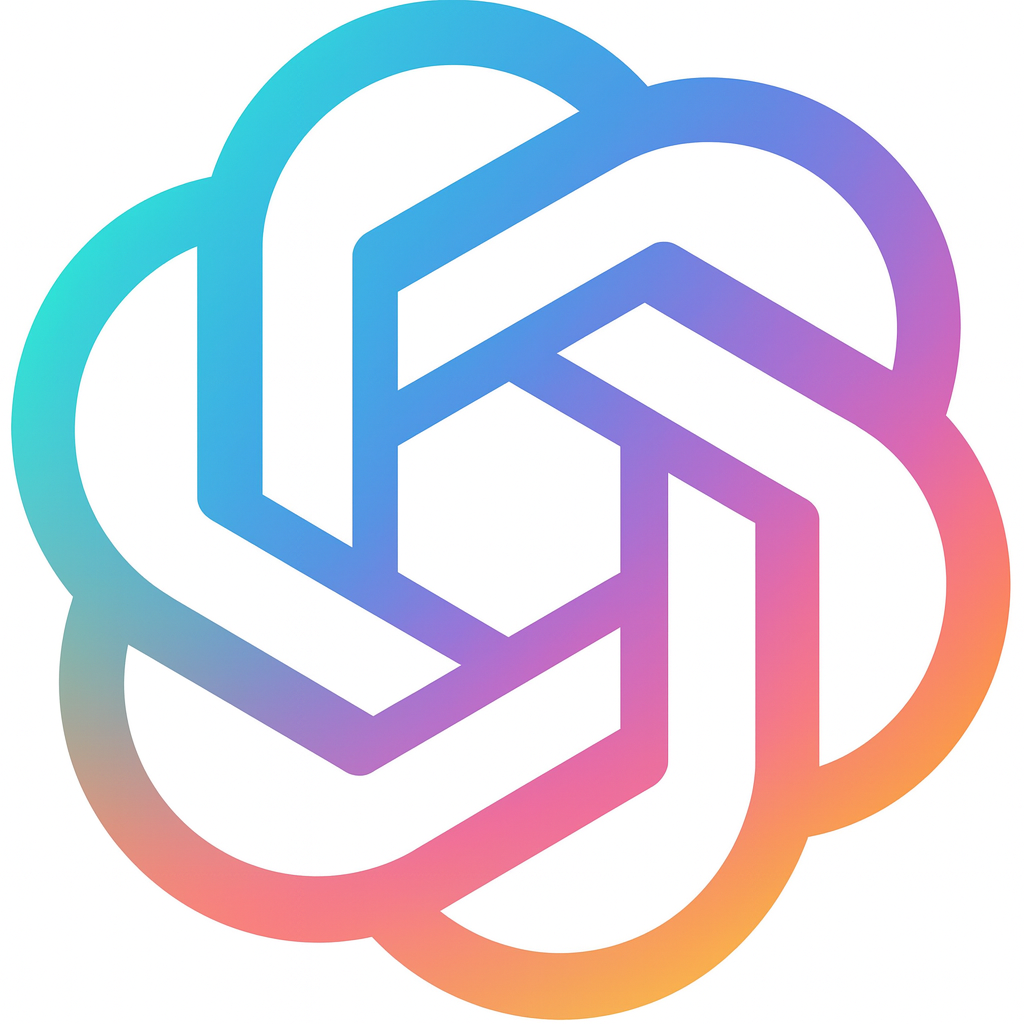
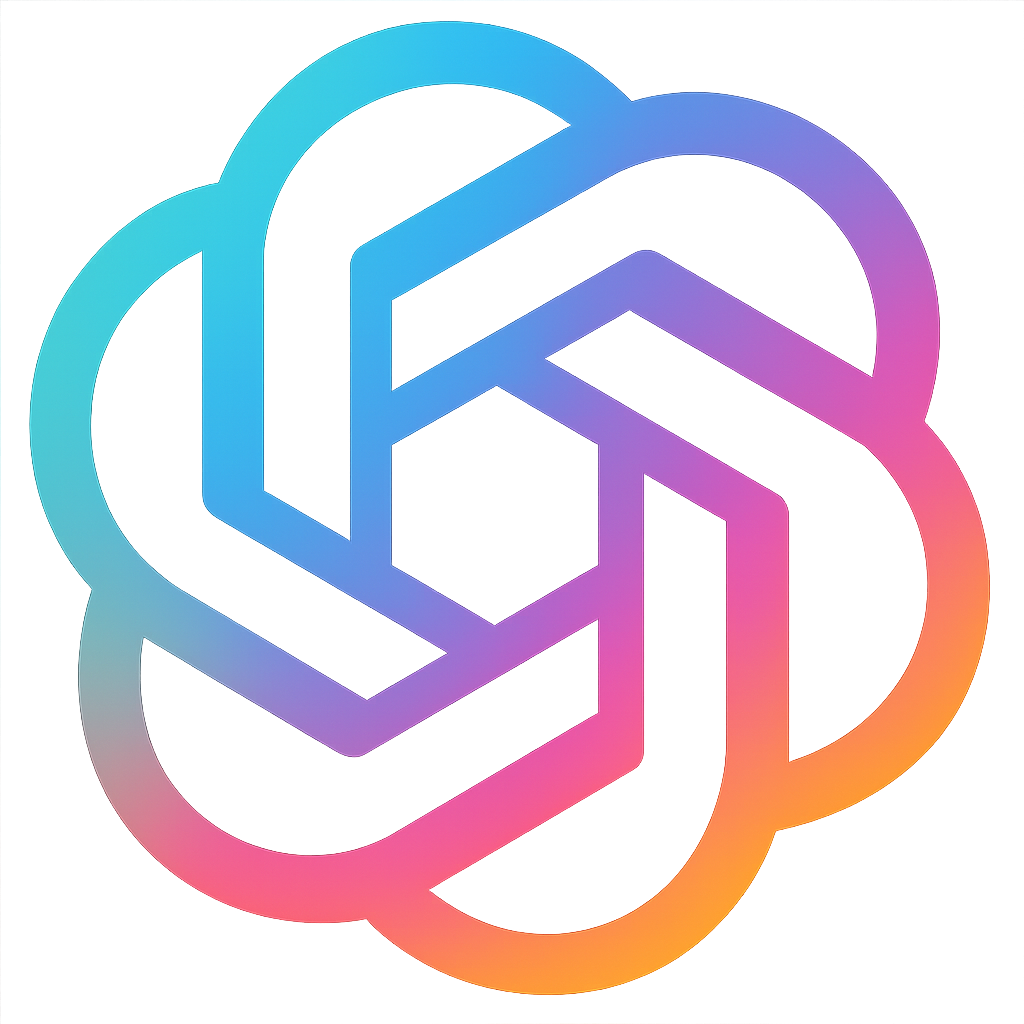
refactor: 将项目从Wanwu重命名为Codex-Plugin
更新项目名称、图标、命令和相关文档，统一使用Codex-Plugin作为新名称

diff --git a/src/extension.ts b/src/extension.ts
@@ -1,20 +1,20 @@
 import * as vscode from 'vscode';
 
-let ccrTerminal: vscode.Terminal | undefined;
+let codexTerminal: vscode.Terminal | undefined;
 // 新增：编辑器区域的终端
 let editorTerminal: vscode.Terminal | undefined;
 
 export function activate(context: vscode.ExtensionContext) {
 	console.log('Claude Code Router 扩展已激活!');
 
-	// 注册 start ccr 命令
-	const startCcrCommand = vscode.commands.registerCommand('ccr.start', () => {
-		startCcrTerminal();
+	// 注册 start codex 命令
+	const startCodexCommand = vscode.commands.registerCommand('ccr.start', () => {
+		startCodexTerminal();
 	});
 
-	// 注册 ccr code 命令
-	const ccrCodeCommand = vscode.commands.registerCommand('ccr.code', () => {
-		executeCcrCode();
+	// 注册 codex code 命令
+	const codexCodeCommand = vscode.commands.registerCommand('ccr.code', () => {
+		executeCodexCode();
 	});
 
 	// 新增：注册在编辑器侧边打开终端的命令
@@ -23,15 +23,15 @@ export function activate(context: vscode.ExtensionContext) {
 	});
 
 	context.subscriptions.push(
-		startCcrCommand, 
-		ccrCodeCommand, 
+		startCodexCommand, 
+		codexCodeCommand, 
 		openTerminalEditorSideCommand
 	);
 
 	// 监听终端关闭事件
 	vscode.window.onDidCloseTerminal((terminal) => {
-		if (terminal === ccrTerminal) {
-			ccrTerminal = undefined;
+		if (terminal === codexTerminal) {
+			codexTerminal = undefined;
 		}
 		if (terminal === editorTerminal) {
 			editorTerminal = undefined;
@@ -53,10 +53,10 @@ function openTerminalEditorSide() {
 		editorTerminal.show();
 		setTimeout(() => {
 			if (editorTerminal) {
-				editorTerminal.sendText('ccr code');
+				editorTerminal.sendText('codex');
 			}
 		}, 300);
-		vscode.window.showInformationMessage('编辑器终端已显示，正在执行 ccr code...');
+		vscode.window.showInformationMessage('编辑器终端已显示，正在执行 codex...');
 		return;
 	}
 
@@ -69,18 +69,18 @@ function openTerminalEditorSide() {
 				// 发送欢迎信息并自动执行 ccr code
 				editorTerminal.sendText('echo "🚀 CCR 编辑器侧边终端已启动！"');
 				editorTerminal.sendText('echo "📍 当前目录: $(pwd)"');
-				editorTerminal.sendText('echo "⚡ 正在自动启动 ccr code..."');
+				editorTerminal.sendText('echo "⚡ 正在自动启动 codex..."');
 				editorTerminal.sendText('');
-				// 自动执行 ccr code 命令
-				editorTerminal.sendText('ccr code');
+				// 自动执行 codex 命令
+				editorTerminal.sendText('codex');
 			}
 		}, 800);
 	});
 
-	vscode.window.showInformationMessage('CCR 编辑器终端已在侧边打开，正在自动执行 ccr code...');
+	vscode.window.showInformationMessage('CCR 编辑器终端已在侧边打开，正在自动执行 codex...');
 }
 
-function startCcrTerminal() {
+function startCodexTerminal() {
 	// 获取当前工作区的根目录
 	const workspaceFolder = vscode.workspace.workspaceFolders?.[0];
 	if (!workspaceFolder) {
@@ -89,43 +89,43 @@ function startCcrTerminal() {
 	}
 
 	// 如果终端已存在，显示它；否则创建新的终端
-	if (ccrTerminal) {
-		ccrTerminal.show();
-		vscode.window.showInformationMessage('CCR 终端已打开');
+	if (codexTerminal) {
+		codexTerminal.show();
+		vscode.window.showInformationMessage('Codex 终端已打开');
 	} else {
-		ccrTerminal = vscode.window.createTerminal({
-			name: 'CCR Terminal',
+		codexTerminal = vscode.window.createTerminal({
+			name: 'Codex Terminal',
 			cwd: workspaceFolder.uri.fsPath,
-			message: 'Claude Code Router 终端已启动\n输入 "ccr code" 开始使用'
+			message: 'Codex 终端已启动\n输入 "codex" 开始使用'
 		});
-		ccrTerminal.show();
-		vscode.window.showInformationMessage('CCR 终端已创建并打开');
+		codexTerminal.show();
+		vscode.window.showInformationMessage('Codex 终端已创建并打开');
 	}
 }
 
-function executeCcrCode() {
+function executeCodexCode() {
 	// 确保终端存在
-	if (!ccrTerminal) {
-		startCcrTerminal();
+	if (!codexTerminal) {
+		startCodexTerminal();
 		// 等待终端创建完成后执行命令
 		setTimeout(() => {
-			if (ccrTerminal) {
-				ccrTerminal.sendText('ccr code');
+			if (codexTerminal) {
+				codexTerminal.sendText('codex');
 			}
 		}, 500);
 	} else {
-		ccrTerminal.show();
-		ccrTerminal.sendText('ccr code');
+		codexTerminal.show();
+		codexTerminal.sendText('codex');
 	}
 	
-	vscode.window.showInformationMessage('已执行 CCR Code 命令');
+	vscode.window.showInformationMessage('已执行 Codex 命令');
 }
 
 
 
 export function deactivate() {
-	if (ccrTerminal) {
-		ccrTerminal.dispose();
+	if (codexTerminal) {
+		codexTerminal.dispose();
 	}
 	if (editorTerminal) {
 		editorTerminal.dispose();

diff --git a/README.md b/README.md
@@ -1,56 +1,56 @@
-# Wanwu
+# Codex-Plugin
 
-![Wanwu](src/Wanwu.png)
+![Codex-Plugin](src/codex-extension.png)
 
-万物 - Claude Code Router 命令行工具扩展，现已支持在编辑器窗口中显示真正的终端！
+Codex-Plugin - Claude Code Router 命令行工具扩展，现已支持在编辑器窗口中显示真正的终端！
 
 ## 功能特性
 
 ### 🆕 编辑器终端功能
-- **侧边终端**: 在编辑器侧边打开新的终端实例并自动执行 `ccr code`
+- **侧边终端**: 在编辑器侧边打开新的终端实例并自动执行 `codex`
 - **传统终端**: 在底部面板显示标准终端
 
 ### 🚀 主要命令
 
 #### 1. 编辑器侧边终端 (推荐)
 ```
-命令: CCR: Open Terminal in Editor Side
+命令: Codex: Open Terminal in Editor Side
 快捷键: 可通过命令面板访问
 ```
 - 在编辑器侧边创建真正的终端窗口
 - 支持完整的终端功能和交互
 - 自动设置到当前工作区目录
-- **🚀 自动执行 `ccr code` 命令**
+- **🚀 自动执行 `codex` 命令**
 - 提供友好的欢迎信息和状态提示
 - 适合多终端并行使用
 
-#### 2. 传统CCR终端
-```
-命令: CCR: Start CCR
+#### 2. 传统Codex终端
+
+命令: Codex: Start Codex
 快捷键: 可通过命令面板访问
 ```
-- 在底部终端面板创建CCR终端
+- 在底部终端面板创建Codex终端
 - 传统的终端使用方式
 
-#### 3. CCR代码执行
-```
-命令: CCR: CCR Code
+#### 3. Codex代码执行
+
+命令: Codex: Codex
 快捷键: 可通过命令面板访问
 ```
-- 快速执行 `ccr code` 命令
+- 快速执行 `codex` 命令
 - 自动创建终端（如果不存在）
 
 ## 📋 使用方法
 
 ### 方法一：通过编辑器标题栏按钮（推荐）
 1. 打开任意文件
-2. 在编辑器标题栏找到万物图标按钮
+2. 在编辑器标题栏找到Codex-Plugin图标按钮
 3. 点击按钮：
-   - 🔥 "Open Terminal in Editor Side" - 侧边终端并执行 `ccr code`
+   - 🔥 "Open Terminal in Editor Side" - 侧边终端并执行 `codex`
 
 ### 方法二：通过命令面板
 1. 按 `Ctrl+Shift+P` (Windows/Linux) 或 `Cmd+Shift+P` (macOS)
-2. 输入 "CCR" 查看所有可用命令
+2. 输入 "Codex" 查看所有可用命令
 3. 选择对应的命令执行
 
 ### 方法三：通过快捷键（可自定义）
@@ -65,17 +65,17 @@
 使用VSCode扩展API的 `Terminal.location` 配置：
 ```typescript
 const terminal = vscode.window.createTerminal({
-    name: 'CCR 编辑器终端',
+    name: 'Codex 编辑器终端',
     cwd: workspaceFolder.uri.fsPath,
     location: vscode.TerminalLocation.Editor
 });
 ```
 
-并自动执行ccr code命令：
+并自动执行codex命令：
 ```typescript
 setTimeout(() => {
     if (editorTerminal) {
-        editorTerminal.sendText('ccr code');
+        editorTerminal.sendText('codex');
     }
 }, 800);
 ```
@@ -96,11 +96,11 @@ setTimeout(() => {
 ## 🎯 推荐工作流程
 
 1. **日常开发**: 使用 "Open Terminal in Editor Side" 在编辑器侧边使用终端
-   - 命令会自动执行 `ccr code`，无需手动输入
+   - 命令会自动执行 `codex`，无需手动输入
    - 终端在编辑器侧边显示，方便并行工作
 2. **多任务处理**: 多次点击可以复用现有终端或创建新实例
 3. **快速操作**: 使用编辑器标题栏的万物图标按钮快速访问功能
-4. **重复使用**: 再次点击会重新执行 `ccr code`
+4. **重复使用**: 再次点击会重新执行 `codex`
 
 ## 🐛 故障排除
 
@@ -111,13 +111,13 @@ setTimeout(() => {
 
 ### 命令不可用
 - 确保扩展已正确激活
-- 检查命令面板中是否显示CCR相关命令
+- 检查命令面板中是否显示Codex相关命令
 - 尝试重新启用扩展
 
 ## 🤝 贡献
 
-欢迎提交Issue和Pull Request来改进万物扩展！
+欢迎提交Issue和Pull Request来改进Codex-Plugin扩展！
 
 ## 许可证
 
-MIT License 
+MIT License
